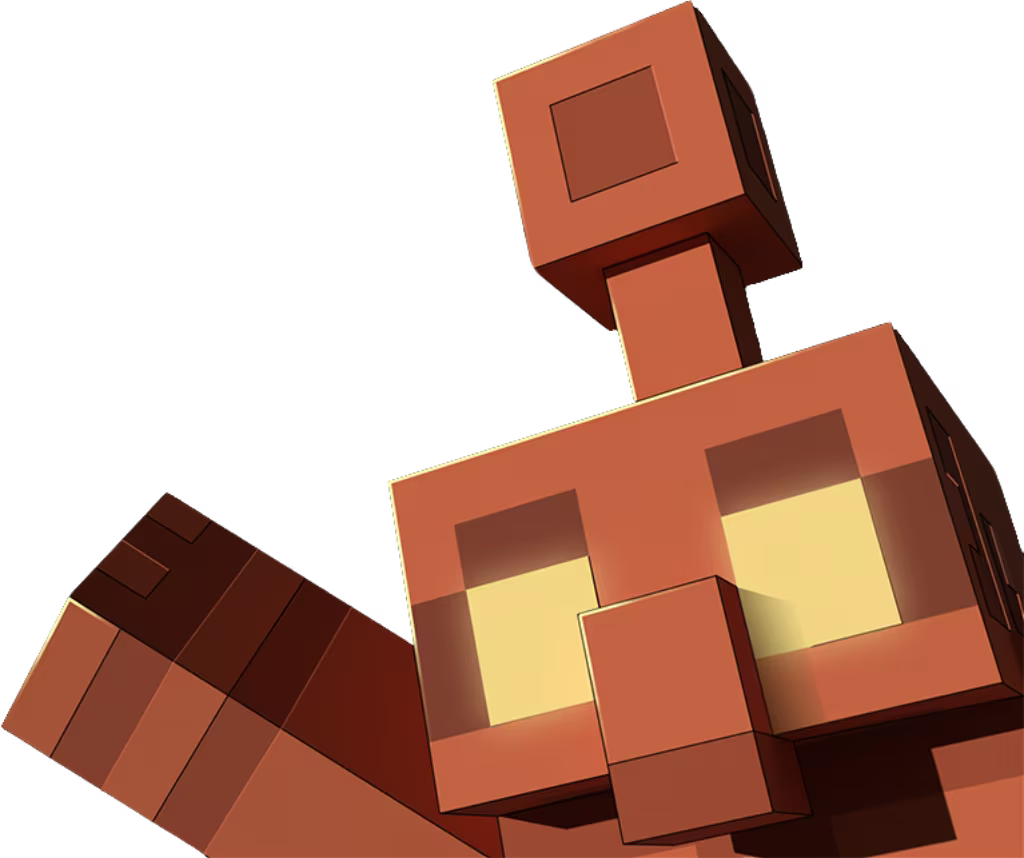
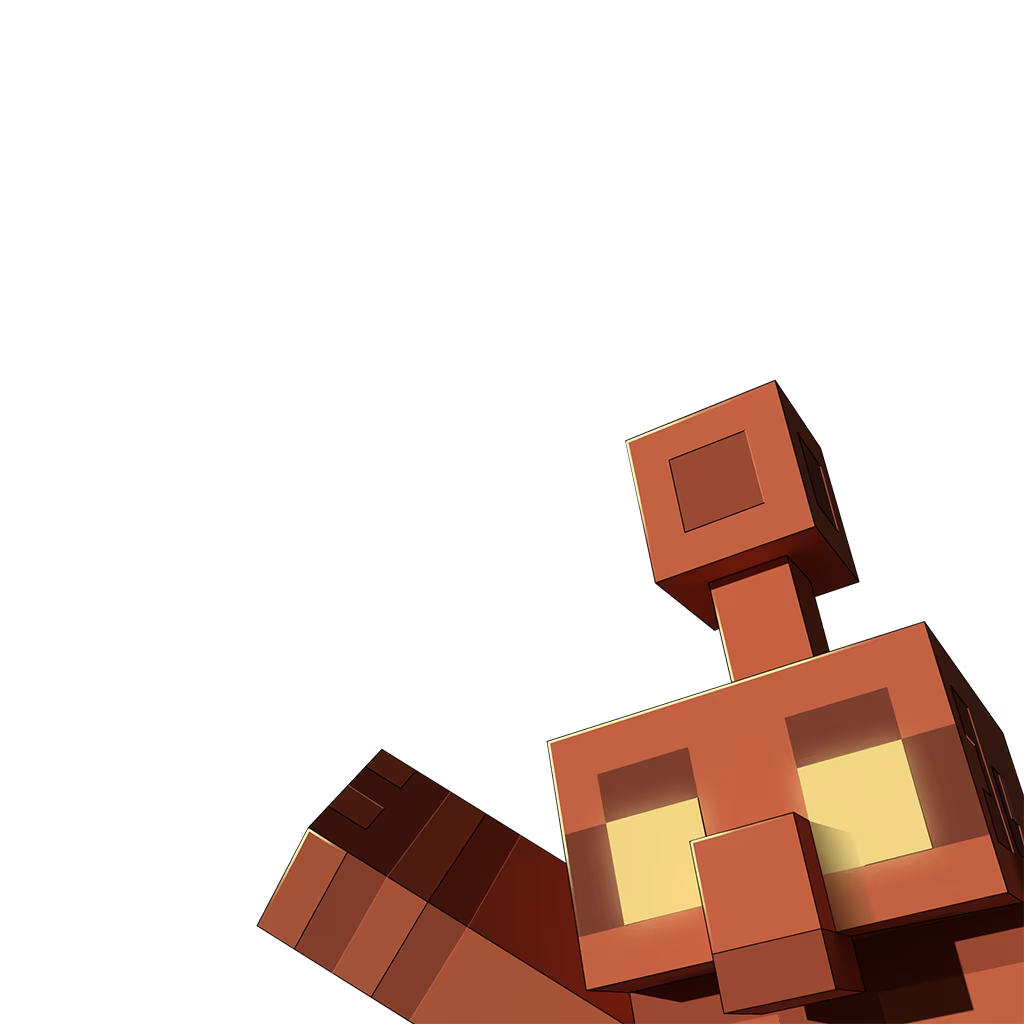
feat: 替换 1024px 原图素材，新增斑驳/氧化铜傀儡变体
- replace: copper_golem.png → 1024x1024 原图 (铜傀儡正常态)
- replace: rusted_golem.png → 1024x1024 原图 (锈蚀态)
- add: weathered_golem.png (铜傀儡斑驳态)
- add: oxidized_golem.png (铜傀儡氧化态)
- update: overlays.ts 新增 2 个挂件选项，baseSize 提升至 1024

diff --git a/src/data/overlays.ts b/src/data/overlays.ts
@@ -13,13 +13,25 @@ export const OVERLAYS: ReadonlyArray<OverlayAsset> = [
     id: 'copper_golem',
     label: '铜傀儡',
     url: '/assets/copper_golem.png',
-    baseSize: 512,
+    baseSize: 1024,
+  },
+  {
+    id: 'weathered_golem',
+    label: '铜傀儡·斑驳',
+    url: '/assets/weathered_golem.png',
+    baseSize: 1024,
   },
   {
     id: 'rusted_golem',
-    label: '铜傀儡生锈',
+    label: '铜傀儡·锈蚀',
     url: '/assets/rusted_golem.png',
-    baseSize: 512,
+    baseSize: 1024,
+  },
+  {
+    id: 'oxidized_golem',
+    label: '铜傀儡·氧化',
+    url: '/assets/oxidized_golem.png',
+    baseSize: 1024,
   },
   {
     id: 'chick',
